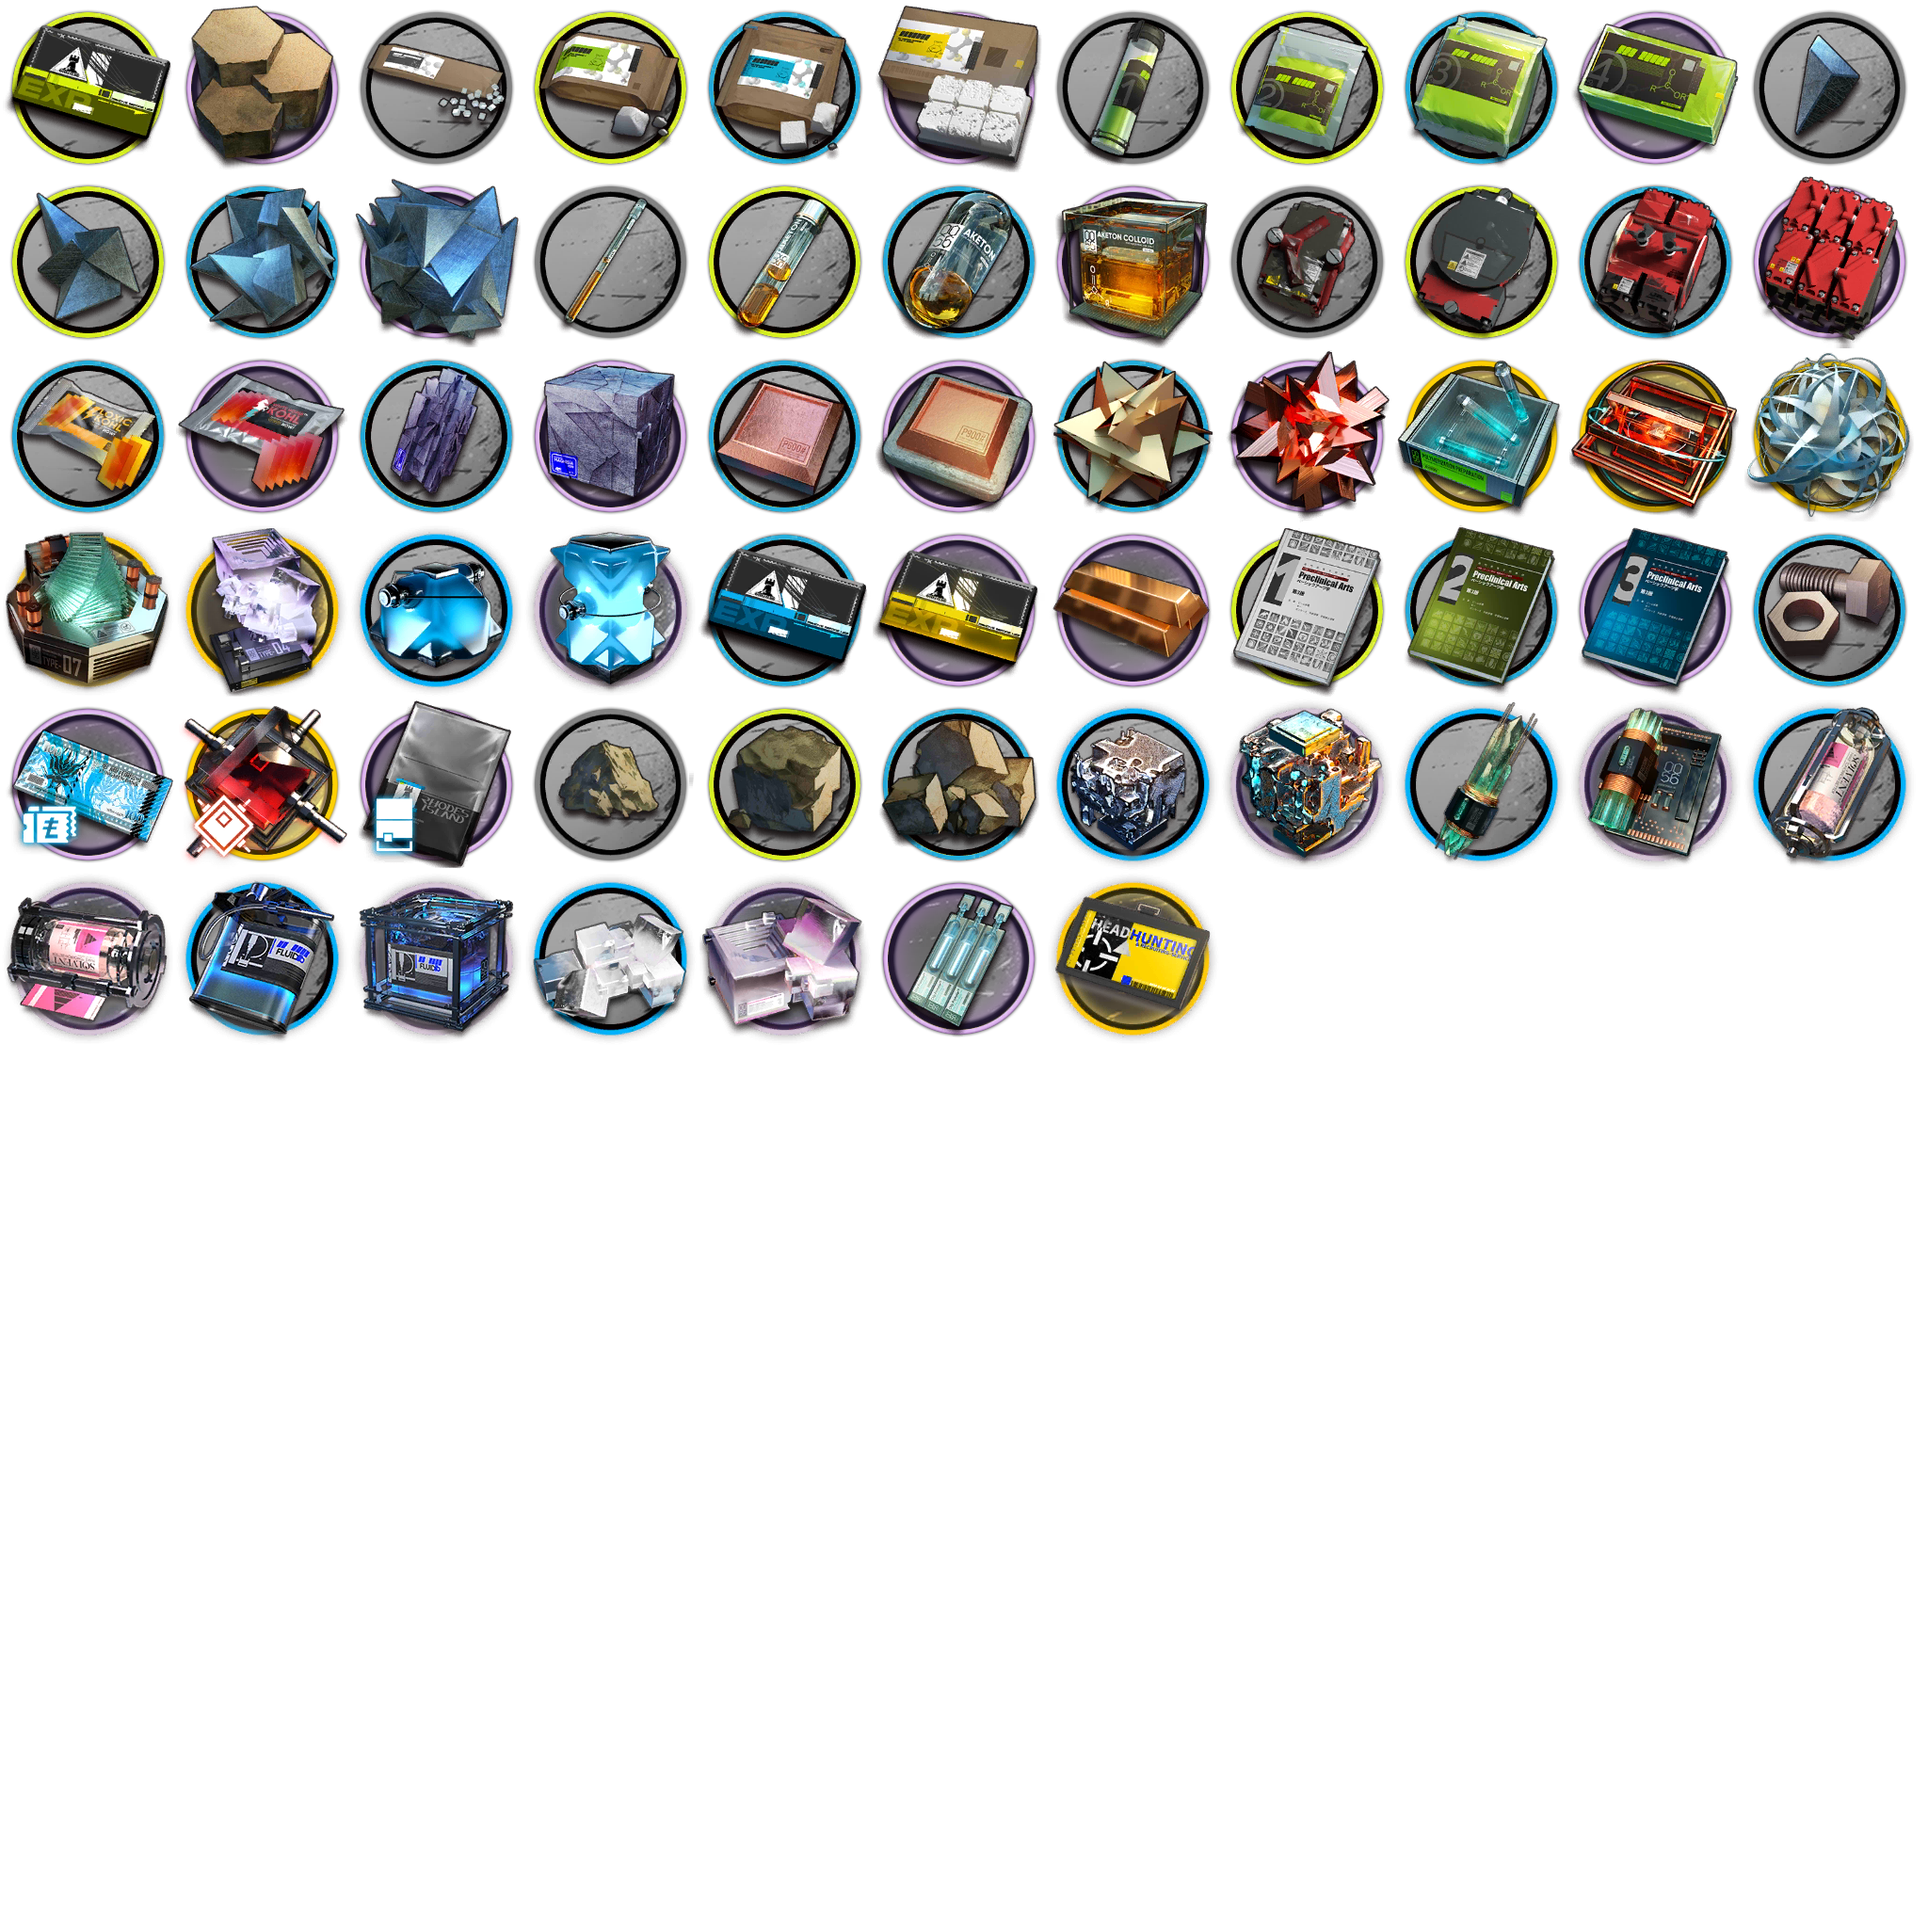
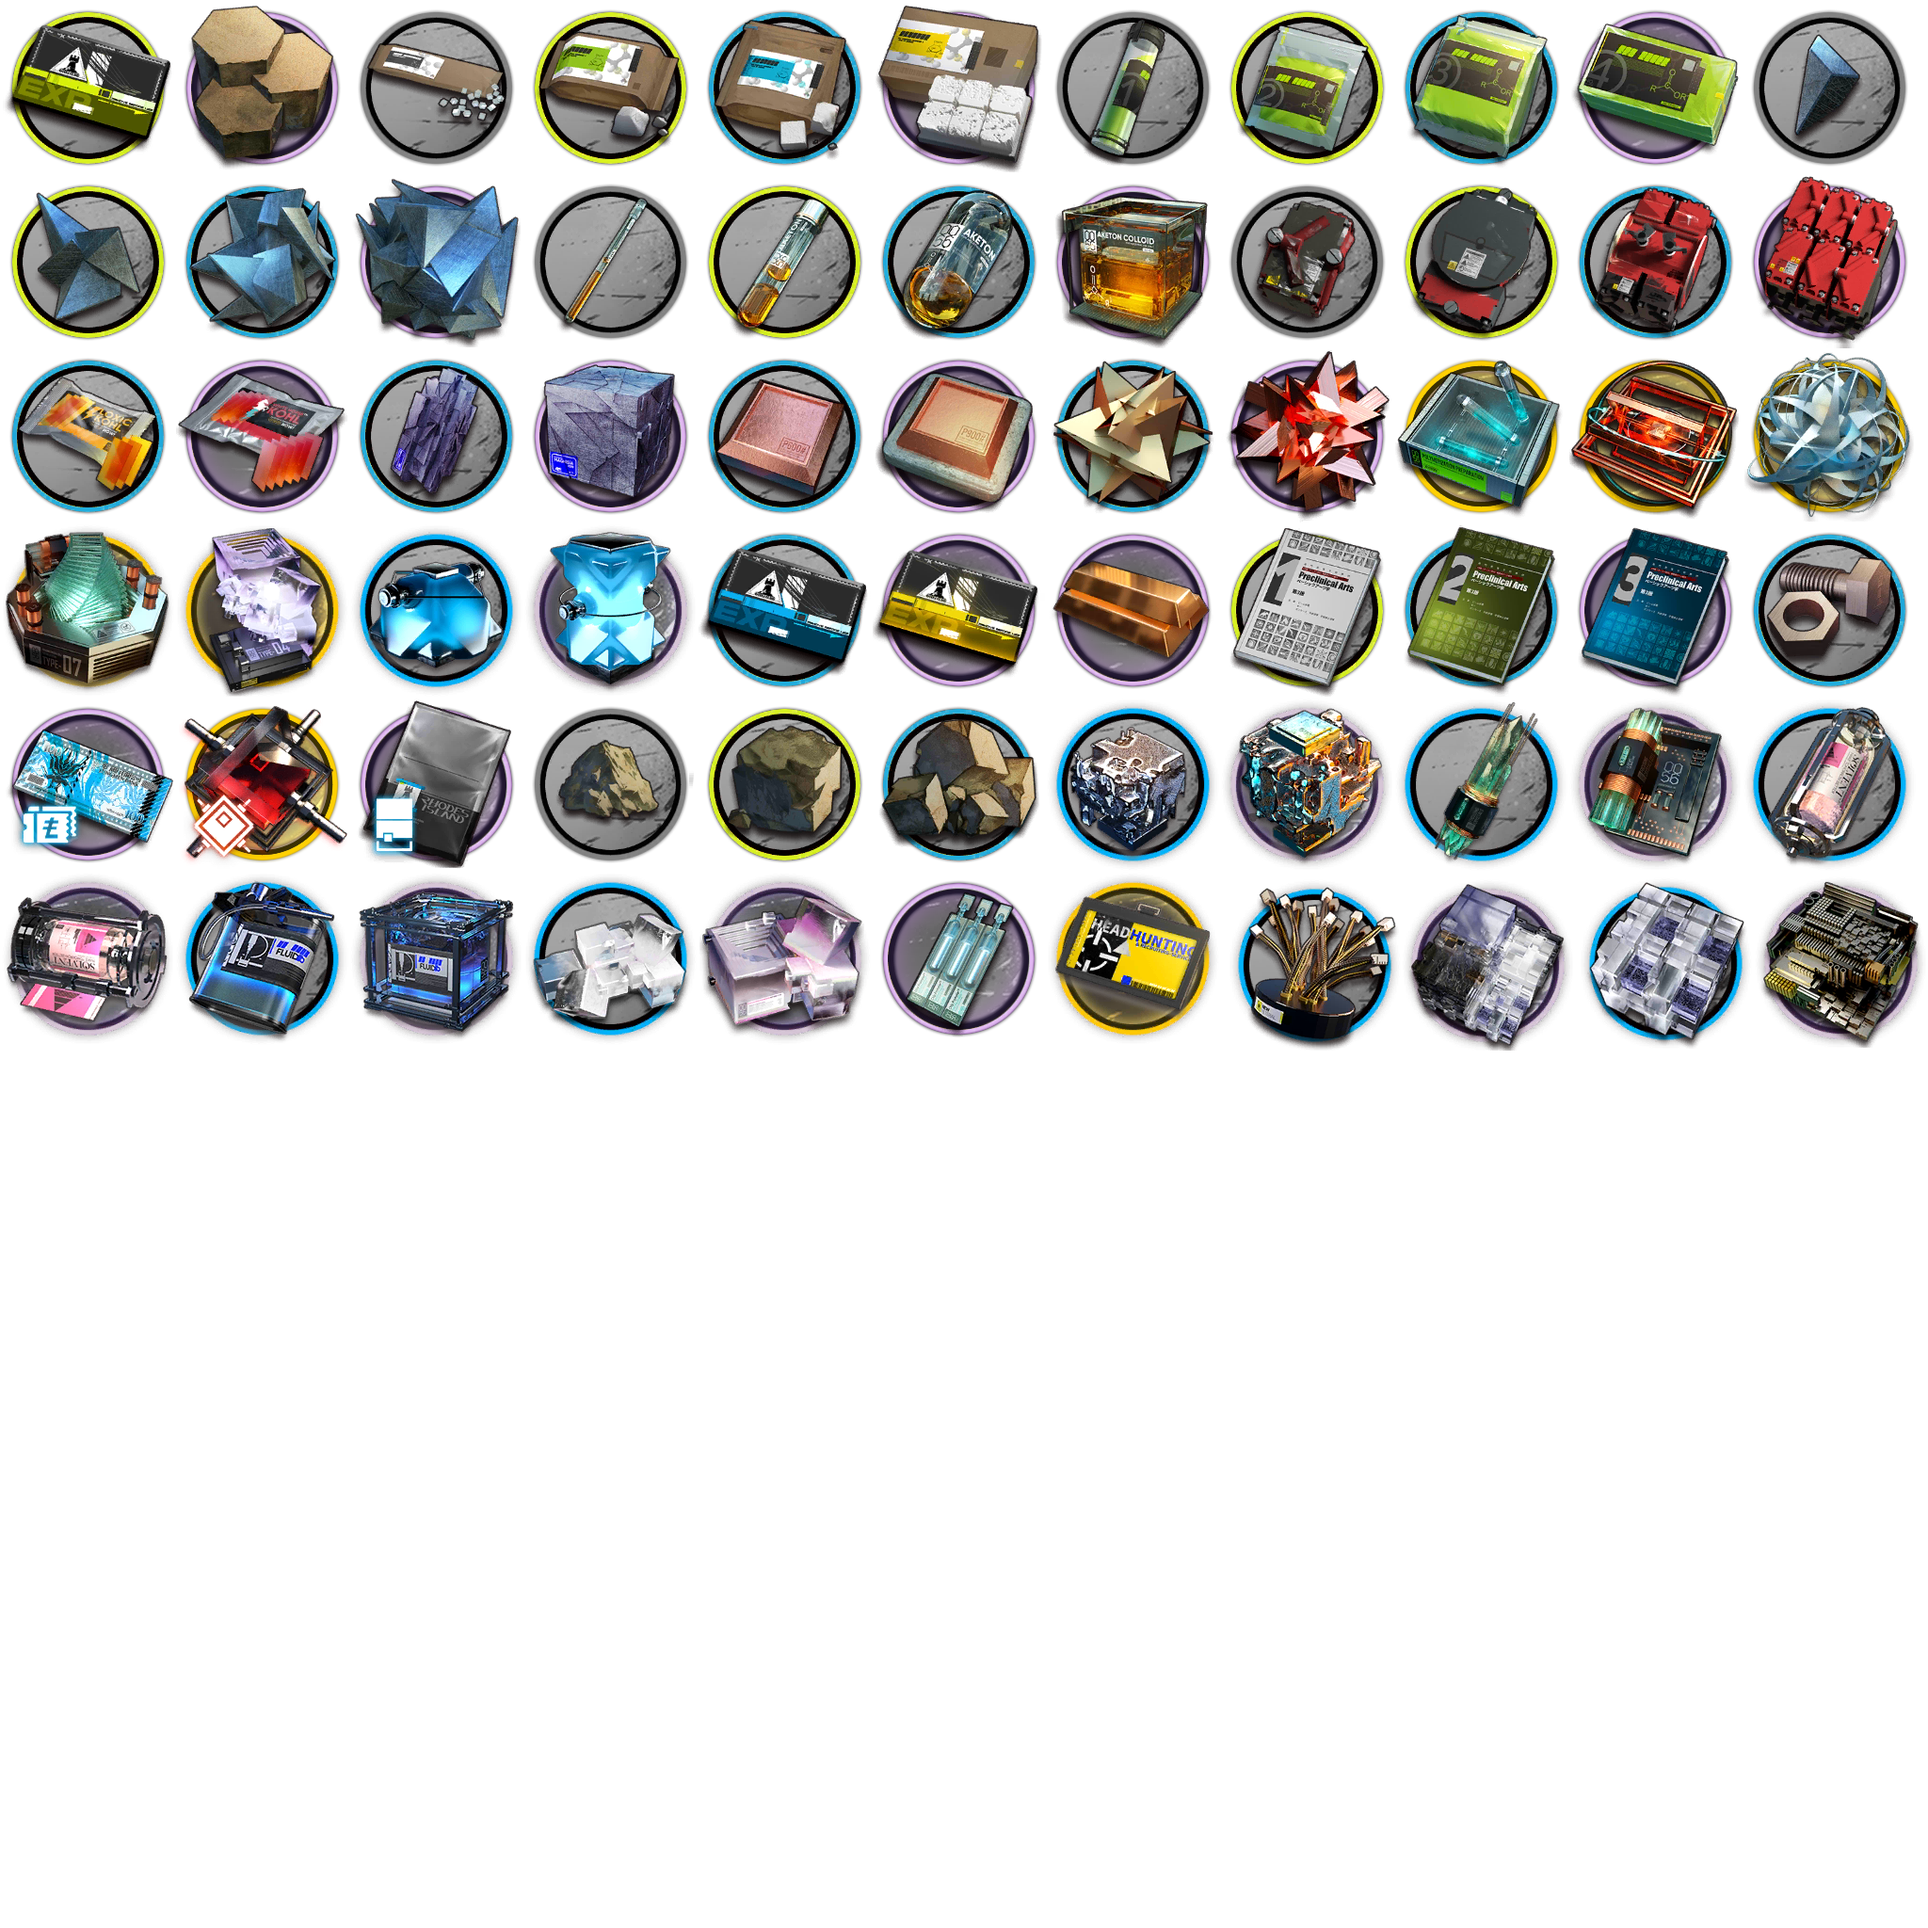
feat(add) new items for new main story chapter

Changed region(s): [[0.625, 0.4375, 1.0, 0.5625]]

diff --git a/client/src/react-components/MaterialTable/index.js b/client/src/react-components/MaterialTable/index.js
@@ -2274,7 +2274,7 @@ class MaterialTable extends BaseComponent {
 
                                     )
 
-                                } else if ((i === 13 || i === 14 || i==15) && this.state.server == 'CN') { // 11 12
+                                } else if ((i === 13 || i === 14 || i==15|| i === 16 || i==17) && this.state.server == 'CN') { // 11 12
                                     return (
 
                                         <TableRow>

diff --git a/client/src/react-components/MaterialTable/materials.scss b/client/src/react-components/MaterialTable/materials.scss
@@ -269,3 +269,23 @@
   background-position: 59.6247% 49.7051%;
   
 }
+
+.material-MT-31073 {
+  background-position: 69.5442% 49.7051%;
+  
+}
+
+.material-MT-31074 {
+  background-position: 79.4638% 49.7051%;
+  
+}
+
+.material-MT-31083 {
+  background-position: 89.3834% 49.7051%;
+  
+}
+
+.material-MT-31084 {
+  background-position: 99.3029% 49.7051%;
+  
+}
